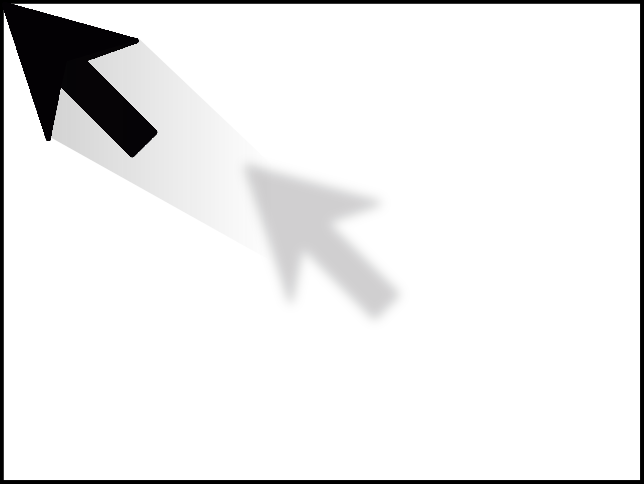
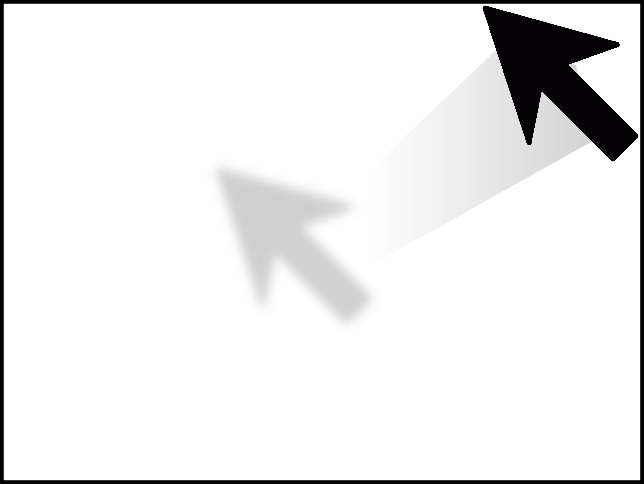
[UPD] HF_space app.py updated and working, Images names changed too

diff --git a/HF_Space/AudioClassifier.py b/HF_Space/AudioClassifier.py
@@ -5,7 +5,8 @@ Author: HenryAreiza
 Date: 08/09/2023
 """
 
-import wave
+from scipy.io import wavfile
+from scipy.signal import decimate
 from transformers import pipeline
 
 class AudioClassifier:
@@ -40,15 +41,14 @@ class AudioClassifier:
         Returns:
             result (str): The classified command label.
         """
-        with wave.open(audio_path, "rb") as wave_file:
-            fs = wave_file.getframerate()
-
-        result = self.pipe(audio_path)[0]["label"]
+        _, audio = wavfile.read(audio_path)
+        audio = decimate(audio, 3)
+        result = self.pipe(audio)[0]["label"]
 
         if result not in self.vocab:
             result = 'unknown'
 
-        return str(fs) + result
+        return result
 
    
 

diff --git a/HF_Space/FacePosition.py b/HF_Space/FacePosition.py
@@ -29,7 +29,7 @@ class FacePosition:
         """
         Initializes the FaceCursorController class.
         """
-        self.movement = ['Center', 'Up', 'Left/Up', 'Left', 'Left/Down', 'Down', 'Right/Down', 'Right', 'Right/Up']
+        self.movement = ['Center', 'Up', 'Right/Up', 'Right', 'Right/Down', 'Down', 'Left/Down', 'Left', 'Left/Up']
         self.images = [cv2.imread(os.path.join('media', str(i)+'.png')) for i in range(9)]
 
         # Load the cursor movement model

diff --git a/HF_Space/app.py b/HF_Space/app.py
@@ -29,7 +29,10 @@ audio_commands = gr.Interface(
     )
 
 
-demo = gr.TabbedInterface([cursor_movement, audio_commands])
+demo = gr.TabbedInterface([cursor_movement, audio_commands],
+                          title = 'Hands-free Cursor Application',
+                          tab_names = ['Cursor movement controller', 'Speech commands recognition'],
+                          theme = gr.themes.Soft())
 
 
 if __name__ == "__main__":
